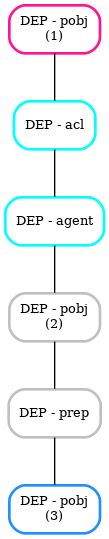
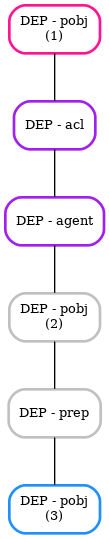
Add ability to visualise matches in the context of sentences

Changed region(s): [[0.0275, 0.3562, 0.9908, 0.475], [0.1101, 0.1781, 0.9083, 0.2968]]

diff --git a/test/test_role_pattern_nlp.py b/test/test_role_pattern_nlp.py
@@ -22,7 +22,7 @@ def idxs_to_tokens(doc, idxs):
     return [doc[idx] for idx in idxs]
 
 
-build_pattern_and_find_matches_test_cases = [
+test_cases = [
     {
         'doc': doc1,
         'match_examples': [
@@ -64,7 +64,7 @@ feature_combs = [
 
 def test_build_pattern_and_find_matches():
     feature_dict = {'DEP': 'dep_', 'TAG': 'tag_', 'LOWER': 'lower_'}
-    for test_case in build_pattern_and_find_matches_test_cases:
+    for test_case in test_cases:
         doc = test_case['doc']
         match_examples = test_case['match_examples']
         role_pattern_builder = RolePatternBuilder(feature_dict)
@@ -119,32 +119,56 @@ def test_validate_features():
 
 def test_visualise_pattern():
     for i, doc in enumerate(docs):
-        png = visualise_spacy_tree.plot(doc)
+        png = visualise_spacy_tree.create_png(doc)
         filepath = 'examples/sentence_vis/sentence_{}.png'.format(i)
         with open(filepath, 'wb') as f:
             f.write(png)
     feature_dict = {'DEP': 'dep_', 'TAG': 'tag_', 'LOWER': 'lower_'}
-    test_cases = build_pattern_and_find_matches_test_cases
     for test_i, test_case in enumerate(test_cases):
         match_examples = test_case['match_examples']
         role_pattern_builder = RolePatternBuilder(feature_dict)
         for features_i, features in enumerate(feature_combs):
             for match_example in match_examples:
                 role_pattern = role_pattern_builder.build(match_example, features=features)
-                role_pattern.token_labels
                 filepath = 'examples/spacy_dep_patterns/pattern_{}_{}.json'.format(test_i, features_i)
                 with open(filepath, 'w') as f:
                     json.dump(role_pattern.spacy_dep_pattern, f, indent=2)
-                matches = role_pattern.match(doc)
-                pydot, legend = role_pattern.to_pydot(with_legend=True)
+                pydot, legend = role_pattern.to_pydot(legend=True)
                 png = pydot.create_png()
                 filename = 'examples/pattern_vis/pattern_{0}_{1}.png'.format(test_i, features_i)
                 with open(filename, 'wb') as f:
                     f.write(png)
-                png = legend.create_png()
-                filename = 'examples/pattern_vis/pattern_{0}_{1}_legend.png'.format(test_i, features_i)
-                with open(filename, 'wb') as f:
-                    f.write(png)
+
+
+def test_visualise_pattern_legend():
+    feature_dict = {'DEP': 'dep_', 'TAG': 'tag_', 'LOWER': 'lower_'}
+    role_pattern_builder = RolePatternBuilder(feature_dict)
+    test_case = test_cases[1]
+    match_example = test_case['match_examples'][0]
+    role_pattern = role_pattern_builder.build(match_example)
+    pydot, legend = role_pattern.to_pydot(legend=True)
+    png = legend.create_png()
+    filename = 'examples/pattern_vis/pattern_1_0_legend.png'
+    with open(filename, 'wb') as f:
+        f.write(png)
+
+
+def test_visualise_pattern_match():
+    feature_dict = {'DEP': 'dep_', 'TAG': 'tag_', 'LOWER': 'lower_'}
+    for test_i, test_case in enumerate(test_cases):
+        doc = test_case['doc']
+        match_examples = test_case['match_examples']
+        role_pattern_builder = RolePatternBuilder(feature_dict)
+        for features_i, features in enumerate(feature_combs):
+            for match_example in match_examples:
+                role_pattern = role_pattern_builder.build(match_example, features=features)
+                matches = role_pattern.match(doc)
+                for match in matches:
+                    pydot = role_pattern.match_to_pydot(match)
+                    png = pydot.create_png()
+                    filename = 'examples/match_vis/match{0}_{1}.png'.format(test_i, features_i)
+                    with open(filename, 'wb') as f:
+                        f.write(png)
 
 
 # def test_role_pattern_set():

diff --git a/role_pattern_nlp/role_pattern_vis.py b/role_pattern_nlp/role_pattern_vis.py
@@ -3,15 +3,17 @@ Show the pattern as a tree plot with node attributes and role labels
 '''
 
 import pydot
+from spacy.tokens import Token
+import visualise_spacy_tree
 import visualise_spacy_pattern
 from role_pattern_nlp import util
 
 
 ROLE_COLOURS = [
     'deeppink1',
-    'cyan',
+    'purple',
     'dodgerblue',
-    'aquamarine',
+    # 'cyan',
 ]
 
 NULL_COLOUR = 'grey'
@@ -58,21 +60,6 @@ def assign_role_colours(graph, token_labels, label2colour):
     return graph
 
 
-# def add_legend(graph, label2colour):
-#     legend = pydot.Subgraph(graph_name='cluster_legend', **DEFAULT_STYLE_ATTRS, **LEGEND_ATTRS)
-#     legend.set_label('Legend')
-#     for label, colour in label2colour.items():
-#         label_node = pydot.Node(name=label, **LEGEND_NODE_ATTRS)
-#         colour_node = pydot.Node(name=colour, fontcolor='white', fontsize=0, **LEGEND_NODE_ATTRS)
-#         # colour_node.set_color(colour)
-#         edge = pydot.Edge(label_node, colour_node, style='invis', contraint='false')
-#         legend.add_node(label_node)
-#         legend.add_node(colour_node)
-#         legend.add_edge(edge)
-#     graph.add_subgraph(legend)
-#     return graph
-
-
 def create_legend(label2colour):
     legend = pydot.Dot(graph_type='graph', **DEFAULT_STYLE_ATTRS)
     legend_cluster = pydot.Subgraph(graph_name='cluster_legend', **DEFAULT_STYLE_ATTRS, **LEGEND_ATTRS)
@@ -82,6 +69,8 @@ def create_legend(label2colour):
         row = '<td>{0}</td><td bgcolor="{1}" width="30"></td>'.format(label, colour)
         row = '<tr>{}</tr>'.format(row)
         rows.append(row)
+    row = '<tr><td>No label</td><td bgcolor="{}" width="30"></td></tr>'.format(NULL_COLOUR)
+    rows.append(row)
     table = '<<table border="0" cellborder="1" cellspacing="0" cellpadding="4">{}</table>>'.format('\n'.join(rows))
     table = pydot.Node(name='legend_table', label=table, shape='none')
     legend_cluster.add_node(table)
@@ -117,14 +106,44 @@ def add_role_label_clusters(graph, labels):
     return new_graph
 
 
-def to_pydot(pattern, with_legend=False):
+def pattern_to_pydot(pattern, legend=False):
     spacy_dep_pattern = pattern.spacy_dep_pattern
     labels_depth_order = pattern.token_labels_depth_order
     labels_original_order = pattern.token_labels
     graph = visualise_spacy_pattern.to_pydot(spacy_dep_pattern)
-    label2colour = get_label_colour_dict(labels_original_order)
+    if pattern.label2colour:
+        label2colour = pattern.label2colour
+    else:
+        label2colour = get_label_colour_dict(labels_original_order)
+        pattern.label2colour = label2colour
     graph = assign_role_colours(graph, labels_depth_order, label2colour)
-    if with_legend:
+    if legend:
         legend = create_legend(label2colour)
         return graph, legend
+    return graph
+
+
+def match_to_pydot(pattern, match, legend=False):
+    if pattern.label2colour:
+        label2colour = pattern.label2colour
+    else:
+        labels_original_order = pattern.token_labels
+        label2colour = get_label_colour_dict(labels_original_order)
+        pattern.label2colour = label2colour
+    doc = util.doc_from_match(match)
+    try:
+        Token.set_extension('plot', default={})
+    except:
+        pass
+    for token in doc:
+        colour = None
+        for match_token in match.match_tokens:
+            if match_token == token:
+                colour = NULL_COLOUR
+            for label, labelled_tokens in match.items():
+                if token in labelled_tokens:
+                    colour = label2colour[label]
+        if colour:
+            token._.plot = {'color': colour}
+    graph = visualise_spacy_tree.to_pydot(doc)
     return graph

diff --git a/role_pattern_nlp/role_pattern.py b/role_pattern_nlp/role_pattern.py
@@ -8,9 +8,10 @@ class RolePattern():
     def __init__(self, spacy_dep_pattern, token_labels):
         self.spacy_dep_pattern = spacy_dep_pattern
         self.token_labels = token_labels
-        self.token_labels_depth_order = None  # Match one to one with spacy_dep_pattern
+        self.token_labels_depth_order = None  # Corresponds one-to-one with spacy_dep_pattern
         self.name = 'pattern'
         self.builder = None
+        self.label2colour = {}  # For visualisation
 
     def match(self, doc):
         pattern = {'spacy_dep_pattern': self.spacy_dep_pattern, 'token_labels': self.token_labels}
@@ -18,4 +19,7 @@ class RolePattern():
         return matches
 
     def to_pydot(self, **kwargs):
-        return role_pattern_vis.to_pydot(self, **kwargs)
+        return role_pattern_vis.pattern_to_pydot(self, **kwargs)
+
+    def match_to_pydot(self, match, **kwargs):
+        return role_pattern_vis.match_to_pydot(self, match, **kwargs)

diff --git a/role_pattern_nlp/match.py b/role_pattern_nlp/match.py
@@ -1,4 +1,12 @@
+import collections
 from spacy.matcher import DependencyTreeMatcher
+
+
+class RolePatternMatch(collections.UserDict):
+
+    def __init__(self, *args, **kwargs):
+        self.match_tokens = []
+        super().__init__(*args, **kwargs)
 
 
 def build_matcher(vocab, pattern_dict):
@@ -20,6 +28,8 @@ def find_matches(doc, pattern, pattern_name='pattern'):
         tokens = [doc[idx] for idx in token_idxs]
         labels = pattern['token_labels']
         match_dict = label_tokens(tokens, labels)
+        match_dict = RolePatternMatch(match_dict)
+        match_dict.match_tokens = tokens
         match_list.append(match_dict)
     return match_list
 
